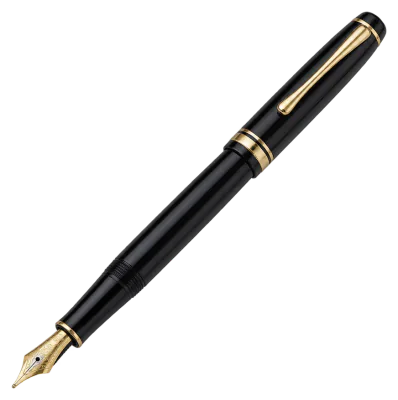
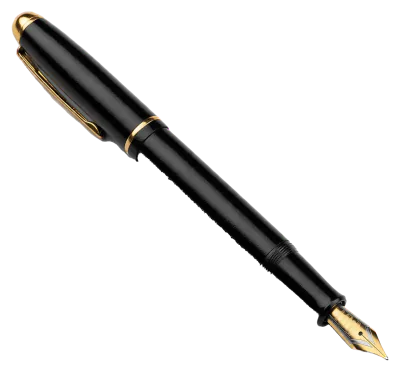
feat(welcome): paint the welcome objects with Meta Muse Image
Muse Image has no transparent output (the API rejects `background`), so
paint-objects.mjs now paints on a plain grey backdrop and cuts each object
out locally: Apple Vision's subject mask, snapped to the image edges with a
colour guided filter, alpha from colour where the object stands apart from
the backdrop, and edge colours unmixed from the grey so nothing haloes on
the dark theme. White things use a mid-grey backdrop. All 14 objects are
now Muse Image; aspect ratios updated, lemon slightly narrower in layout.

Changed region(s): [[0.0302, 0.0296, 0.995, 0.9758]]

diff --git a/src/client/welcome/objects.ts b/src/client/welcome/objects.ts
@@ -1,7 +1,7 @@
 /**
  * The welcome's still life: everyday things from the demo notebook's world
  * (a Lisbon trip, a launch plan, reading notes, recipes). Images are painted by
- * scripts/paint-objects.mjs into public/objects/<id>.webp.
+ * Meta Muse Image via scripts/paint-objects.mjs into public/objects/<id>.webp.
  *
  * x/y: centre, in % of the viewport. w: width in px at the reference size
  * (scaled by --k). r: resting tilt in degrees. ratio: width / height of the image.
@@ -16,20 +16,20 @@ export interface Placed {
 }
 
 const RATIO: Record<string, number> = {
-  "boarding-pass": 400 / 226,
-  camera: 400 / 287,
-  espresso: 400 / 365,
-  glasses: 400 / 211,
-  lemon: 365 / 400,
-  nata: 400 / 326,
-  paperback: 400 / 347,
-  pen: 398 / 400,
-  phone: 400 / 383,
-  plant: 374 / 400,
-  sardines: 400 / 390,
-  sourdough: 400 / 351,
-  "sticky-notes": 400 / 298,
-  tile: 400 / 349,
+  "boarding-pass": 400 / 198,
+  camera: 400 / 290,
+  espresso: 400 / 337,
+  glasses: 400 / 244,
+  lemon: 283 / 400,
+  nata: 400 / 291,
+  paperback: 400 / 310,
+  pen: 400 / 372,
+  phone: 400 / 400,
+  plant: 375 / 400,
+  sardines: 400 / 395,
+  sourdough: 400 / 319,
+  "sticky-notes": 400 / 364,
+  tile: 400 / 366,
 };
 
 const at = (id: string, x: number, y: number, w: number, r = 0): Placed => ({ id, ratio: RATIO[id], x, y, w, r });
@@ -43,7 +43,7 @@ export const WIDE: Placed[] = [
   at("camera", 80, 19, 136, -4),
   at("phone", 93, 32, 84, 6),
   at("espresso", 86, 53, 110),
-  at("lemon", 89, 76, 82, -6),
+  at("lemon", 89, 76, 72, -6),
   at("tile", 73, 85, 100, 8),
   at("sourdough", 55, 89, 140),
   at("paperback", 37, 88, 120, -10),
@@ -59,5 +59,5 @@ export const NARROW: Placed[] = [
   at("espresso", 85, 13, 80),
   at("sourdough", 19, 88, 110),
   at("tile", 53, 91, 80, 8),
-  at("lemon", 85, 86, 68, -6),
+  at("lemon", 85, 86, 60, -6),
 ];
